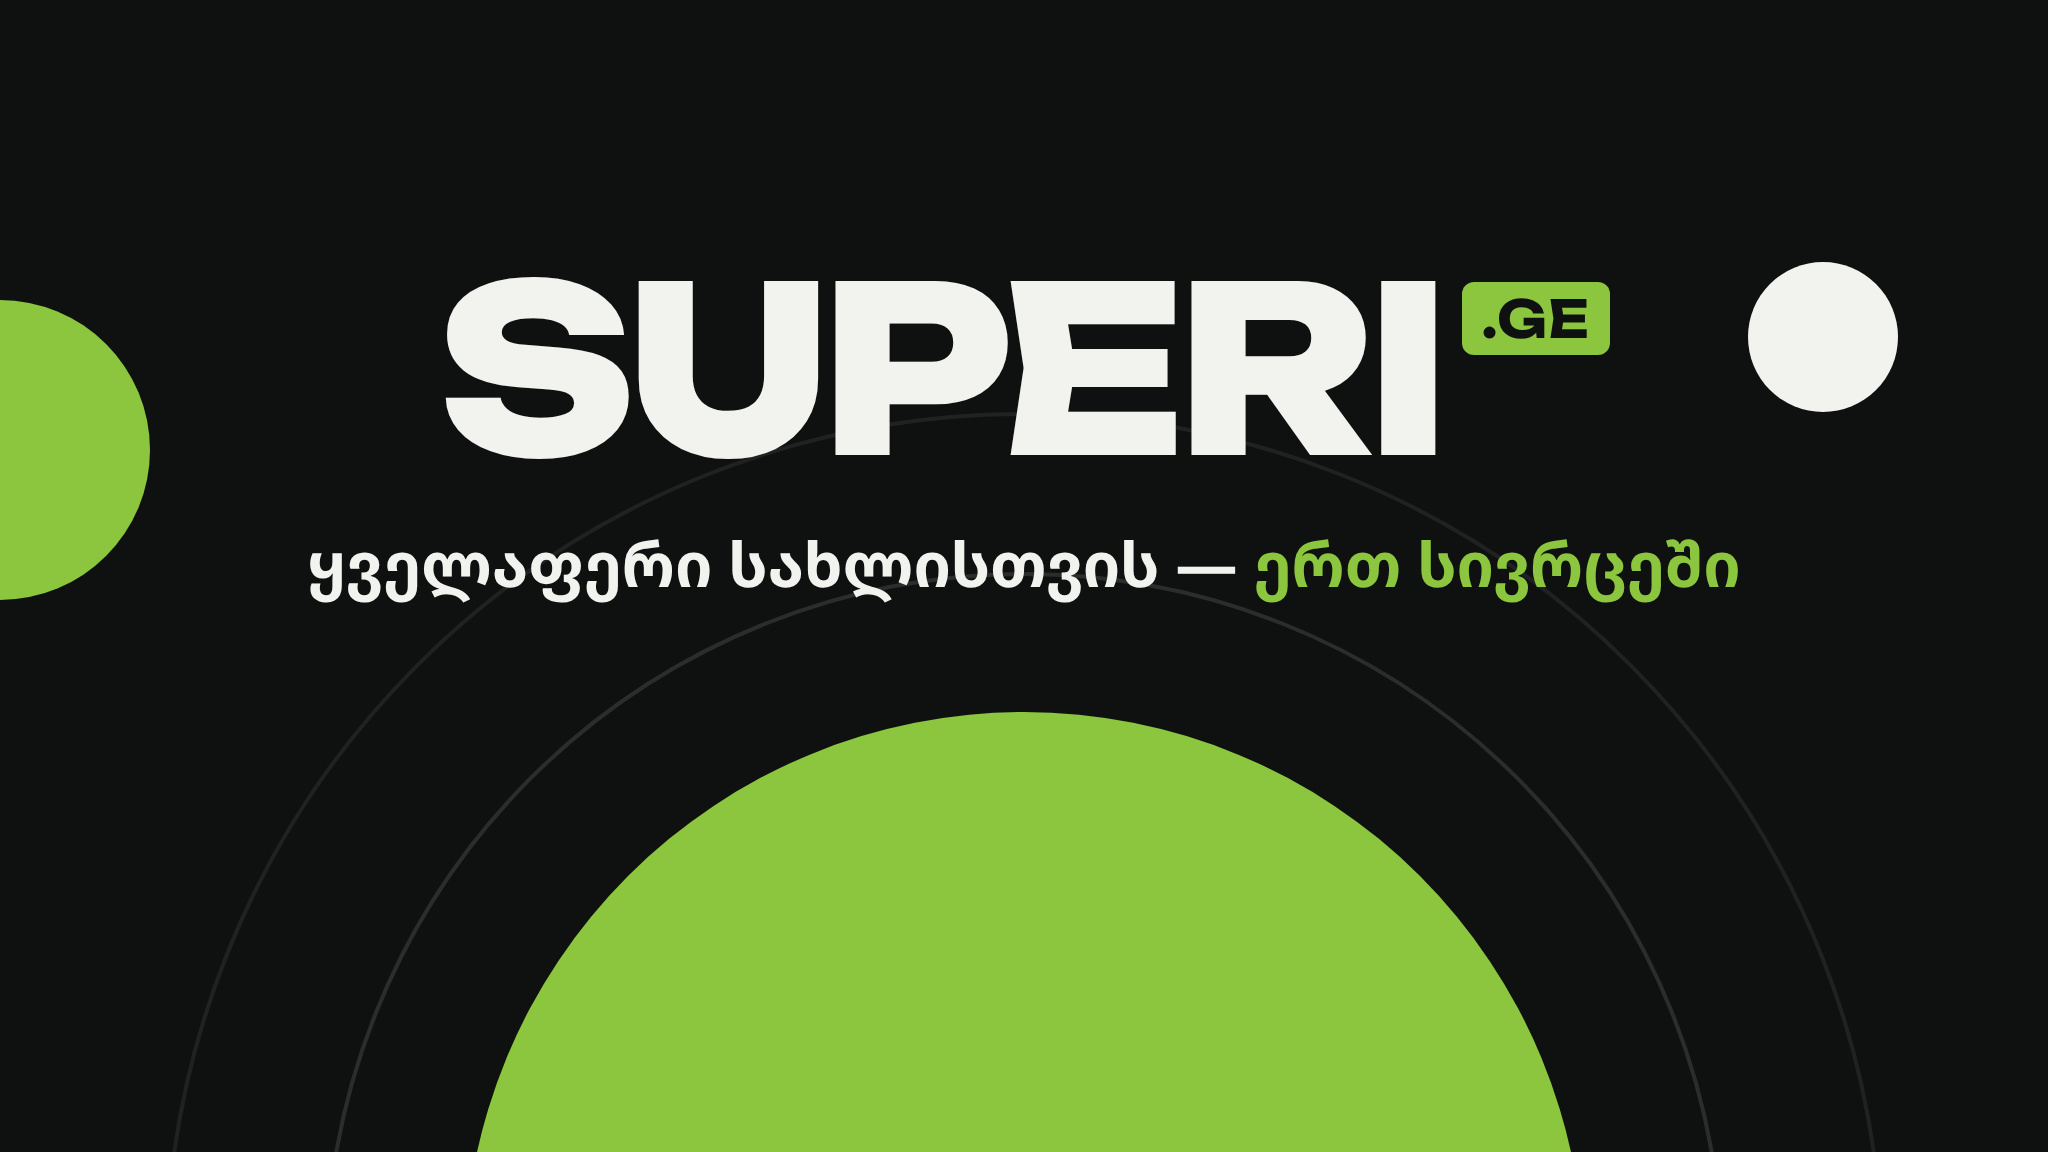
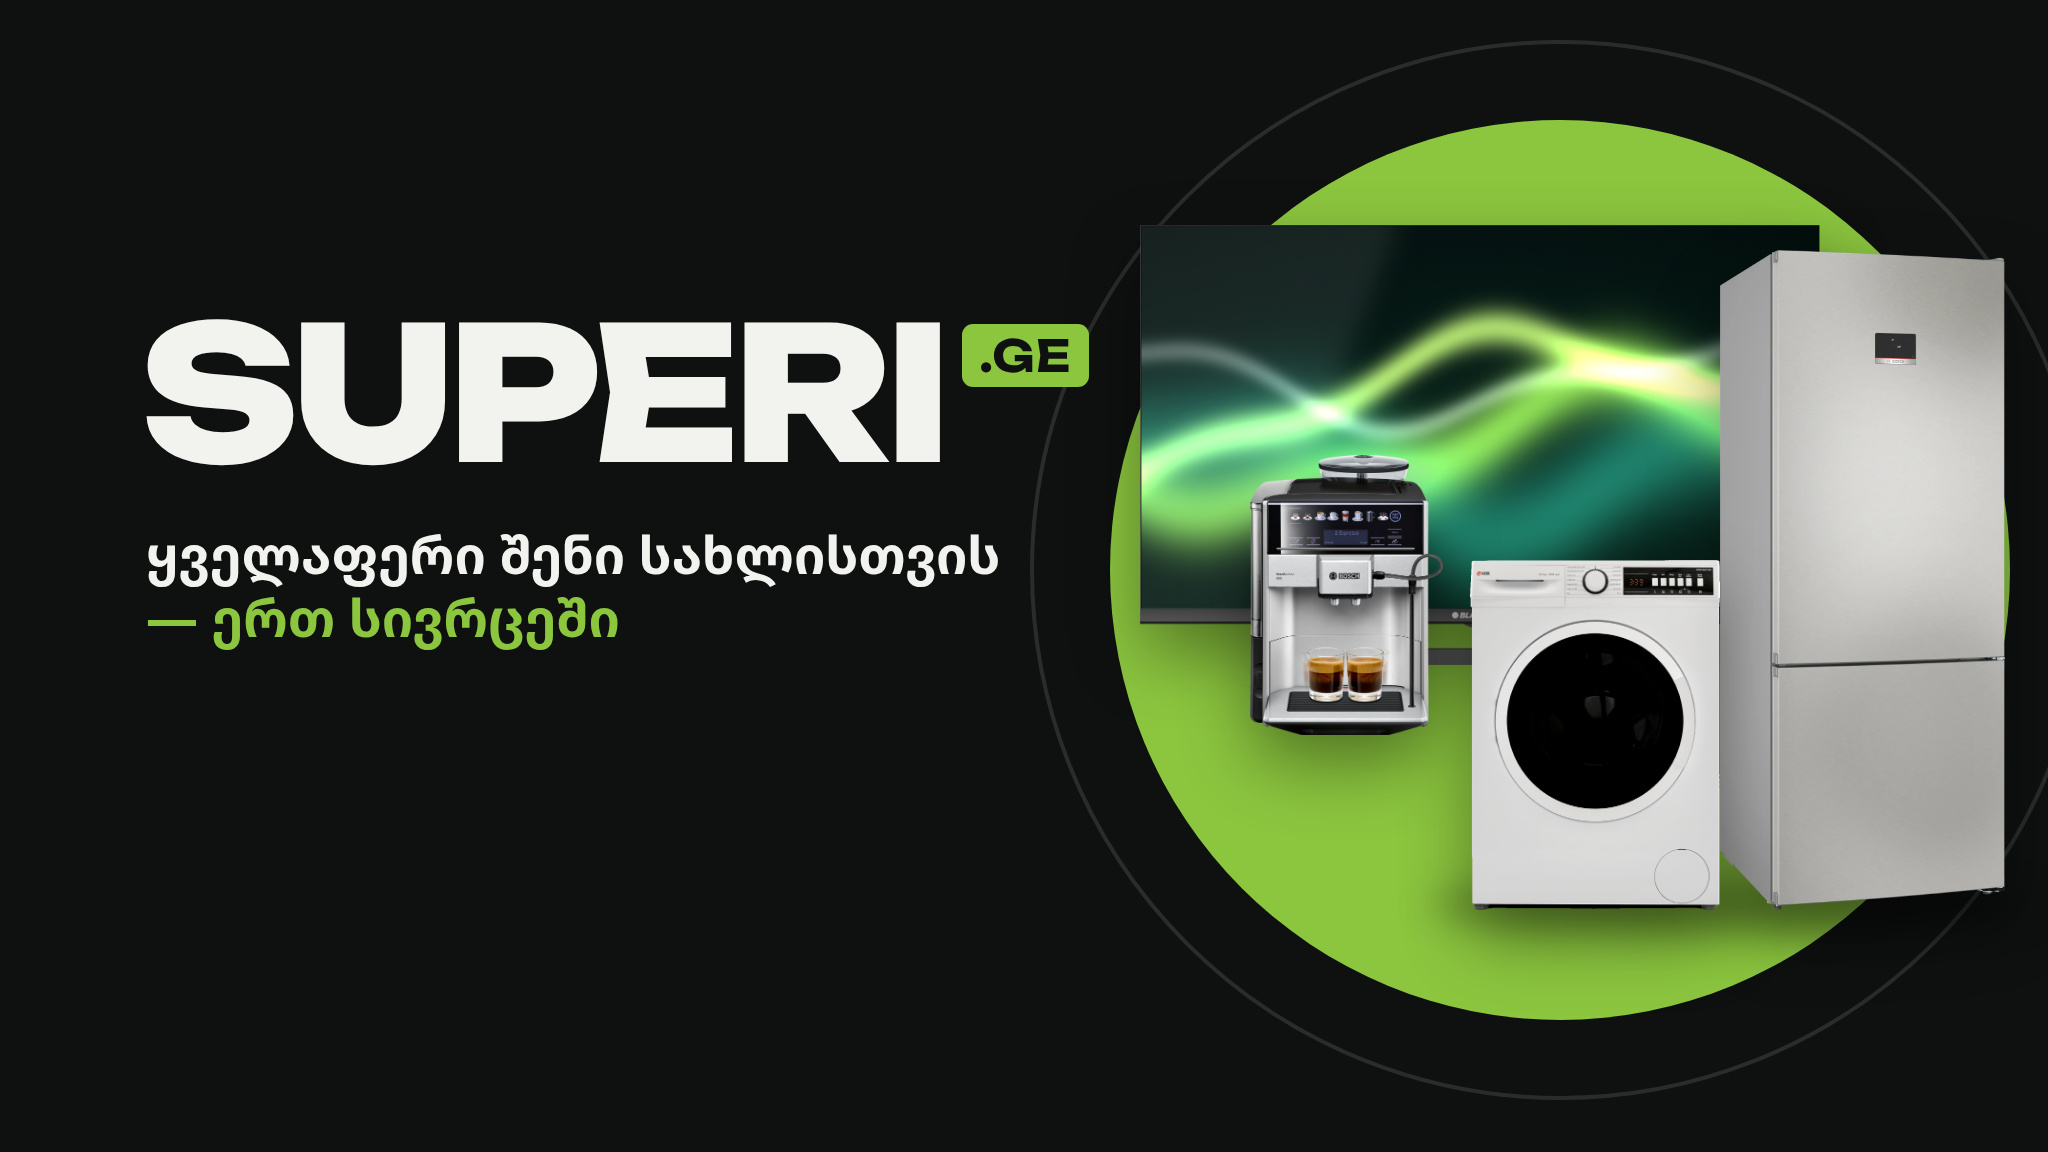
Cover A v3: bring the appliances back, in high resolution
Uses superi.ge's own high-res transparent product photos (TV, fridge,
washer, coffee machine) downscaled rather than upscaled, a brand-colour
TV screen instead of the vendor's text, and keeps the bottom centre and
bottom-left clear for the mobile and desktop profile pictures. v2 is
kept with an old- prefix.

Claude-Session: https://claude.ai/code/session_012Pmnm13bsAKHm1kSYKBRaM

diff --git a/superi-facebook/source/cover_a_v3.html b/superi-facebook/source/cover_a_v3.html
@@ -1,0 +1,26 @@
+<!doctype html><html><head><meta charset="utf-8"><link rel="stylesheet" href="base.css">
+<style>
+:root{--w:2048px;--h:1152px}
+body{background:var(--ink)}
+.sun{width:900px;height:900px;border-radius:50%;background:var(--lime);left:1110px;top:120px}
+.ring{width:1060px;height:1060px;border-radius:50%;border:4px solid rgba(242,243,238,.12);left:1030px;top:40px}
+.floor{left:1430px;top:880px;width:600px;height:50px;border-radius:50%;background:rgba(0,0,0,.35);filter:blur(18px)}
+.dot{width:120px;height:120px;border-radius:50%;background:var(--paper);left:960px;top:150px}
+.word{left:140px;top:300px;color:var(--paper);font-size:186px;font-weight:800;letter-spacing:-.045em;line-height:1;display:flex;align-items:flex-start;gap:18px}
+.dom{color:var(--ink);background:var(--lime);font-size:44px;font-weight:700;padding:10px 18px 9px;border-radius:11px;letter-spacing:.02em;line-height:1;margin-top:24px}
+.tag{left:146px;top:522px;color:var(--paper);font-size:52px;font-weight:700;line-height:1.22}
+.tag em{font-style:normal;color:var(--lime)}
+.p{position:absolute;filter:drop-shadow(0 30px 34px rgba(0,0,0,.38))}
+</style></head><body>
+<div class="abs ring"></div>
+<div class="abs sun"></div>
+<div class="abs floor"></div>
+
+<img class="p" src="assets/h_tv.webp"     style="left:1140px;top:225px;width:680px">
+<img class="p" src="assets/h_fridge.webp" style="left:1720px;top:250px;height:660px">
+<img class="p" src="assets/h_coffee.webp" style="left:1250px;top:455px;height:280px">
+<img class="p" src="assets/h_washer.webp" style="left:1470px;top:560px;height:350px">
+
+<div class="abs word unb">SUPERI<span class="dom">.GE</span></div>
+<div class="abs tag">ყველაფერი შენი სახლისთვის<br><em>— ერთ სივრცეში</em></div>
+</body></html>
